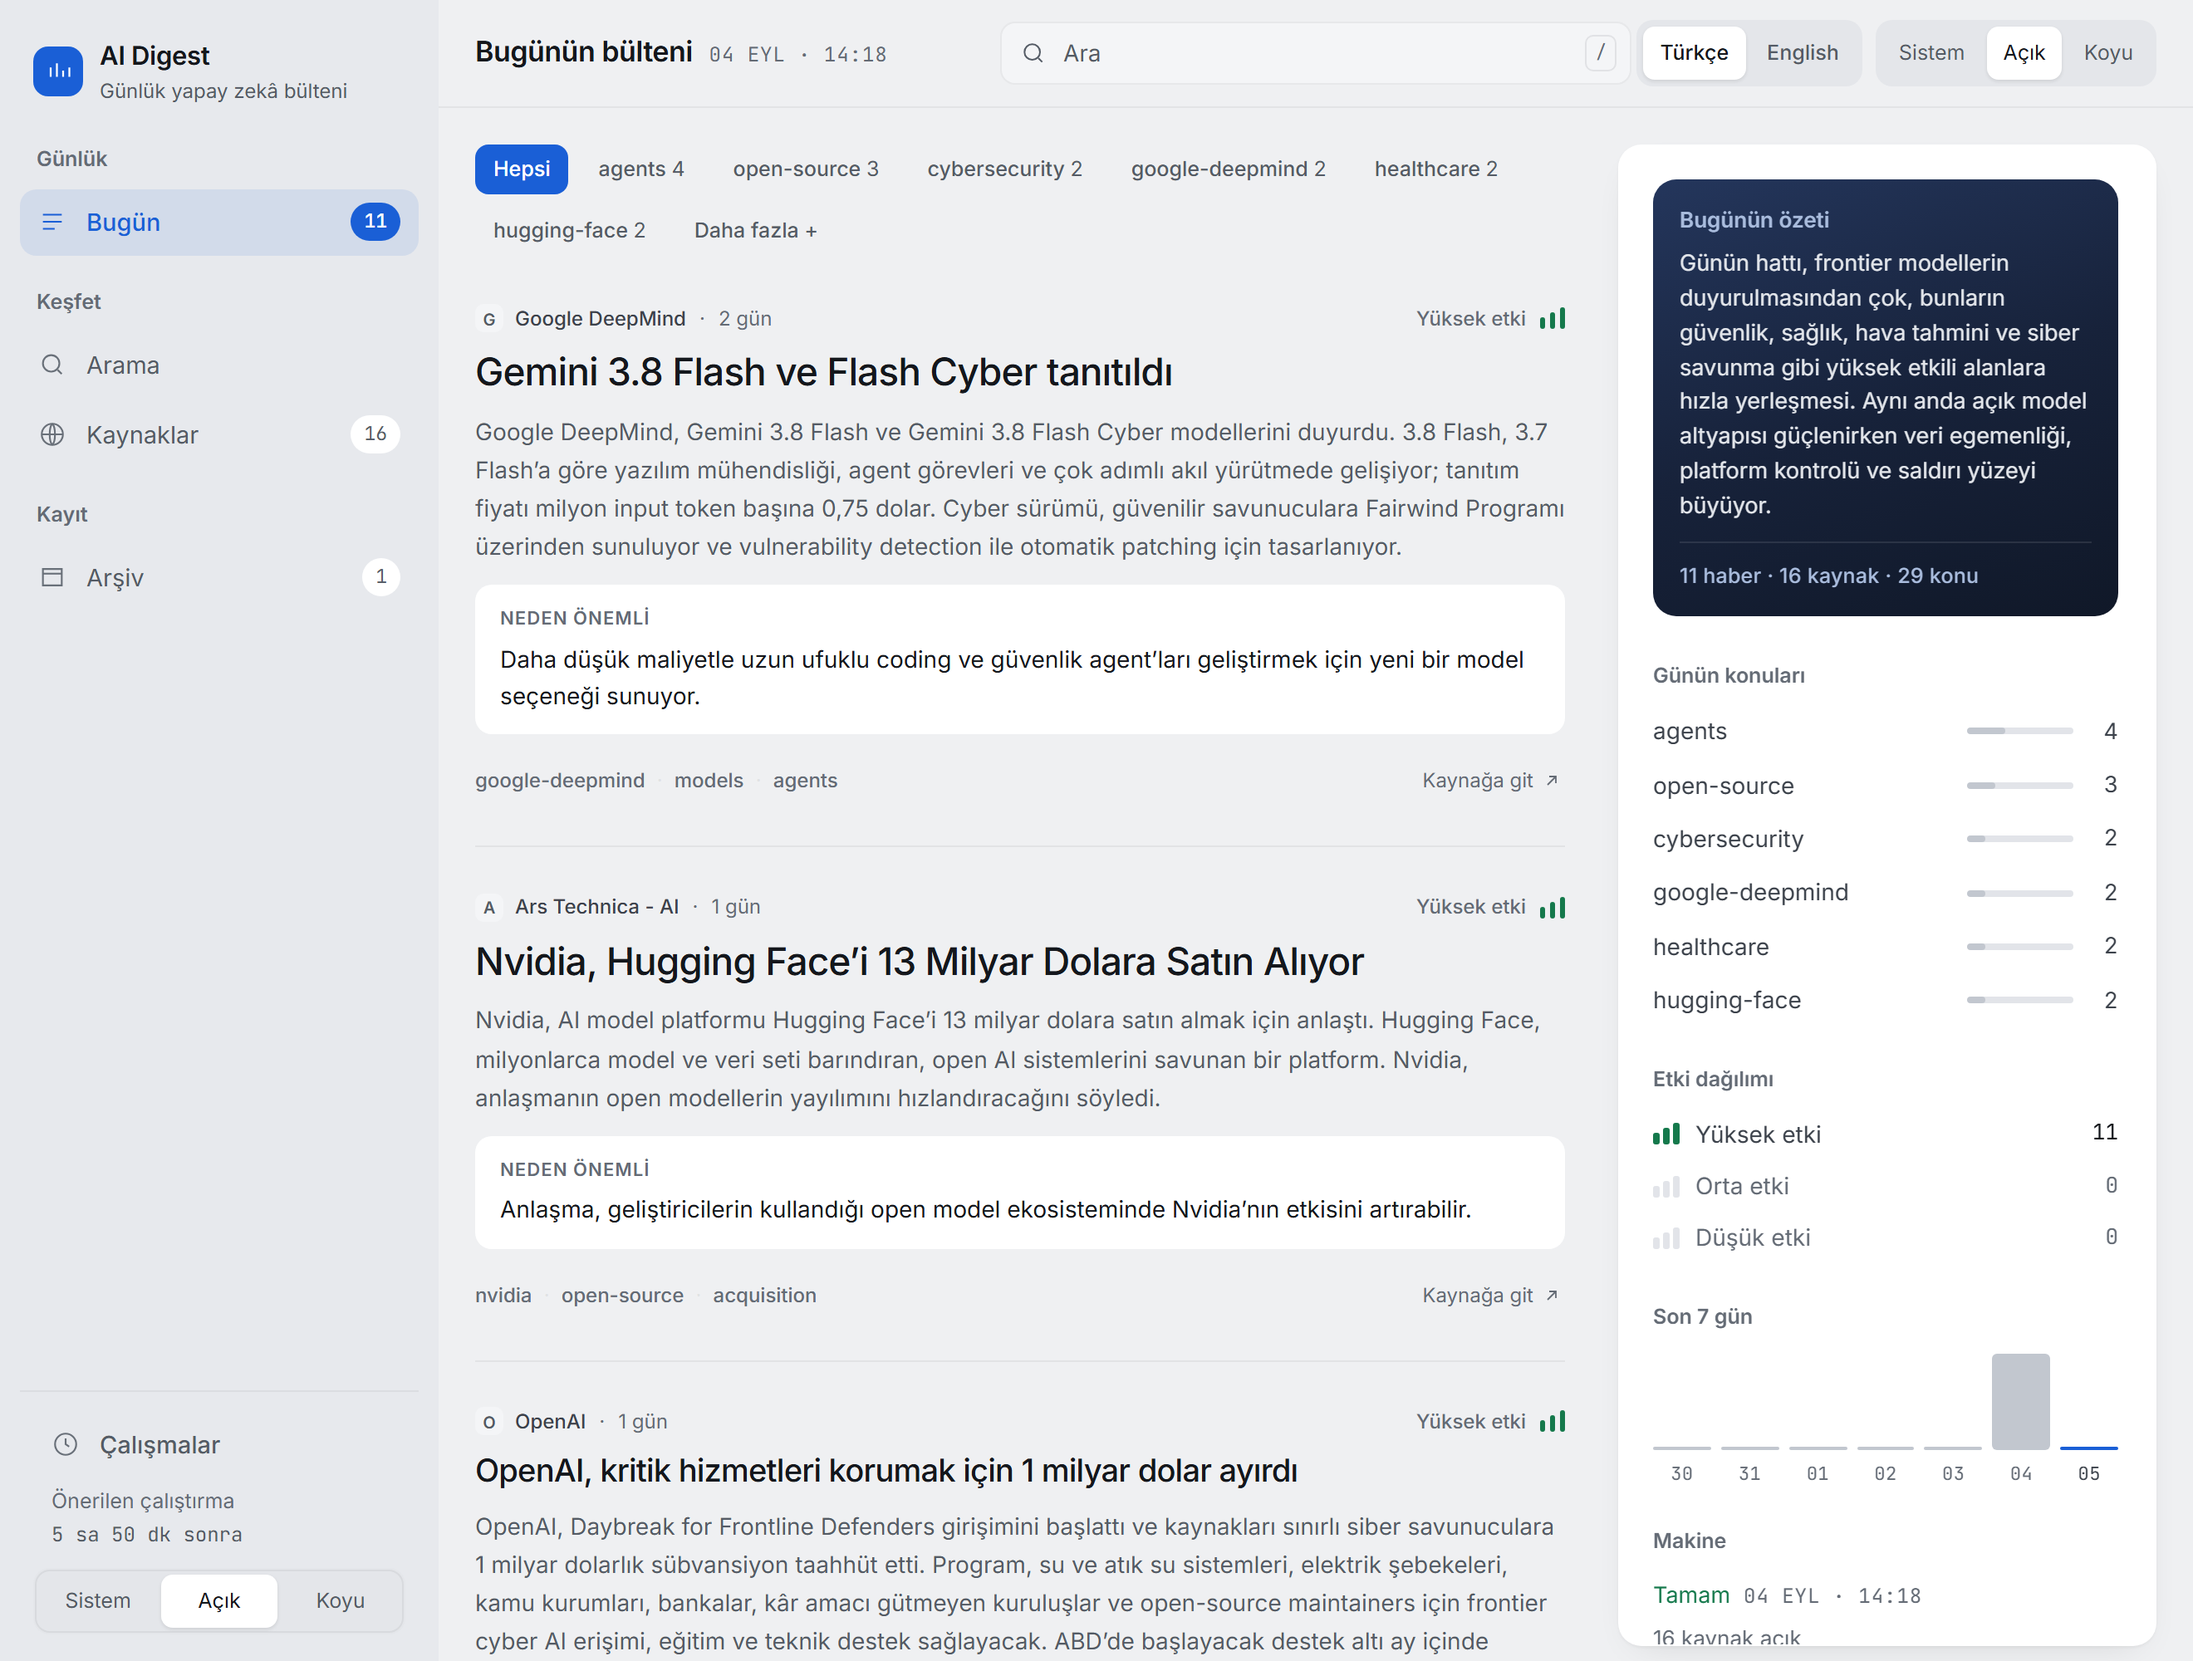
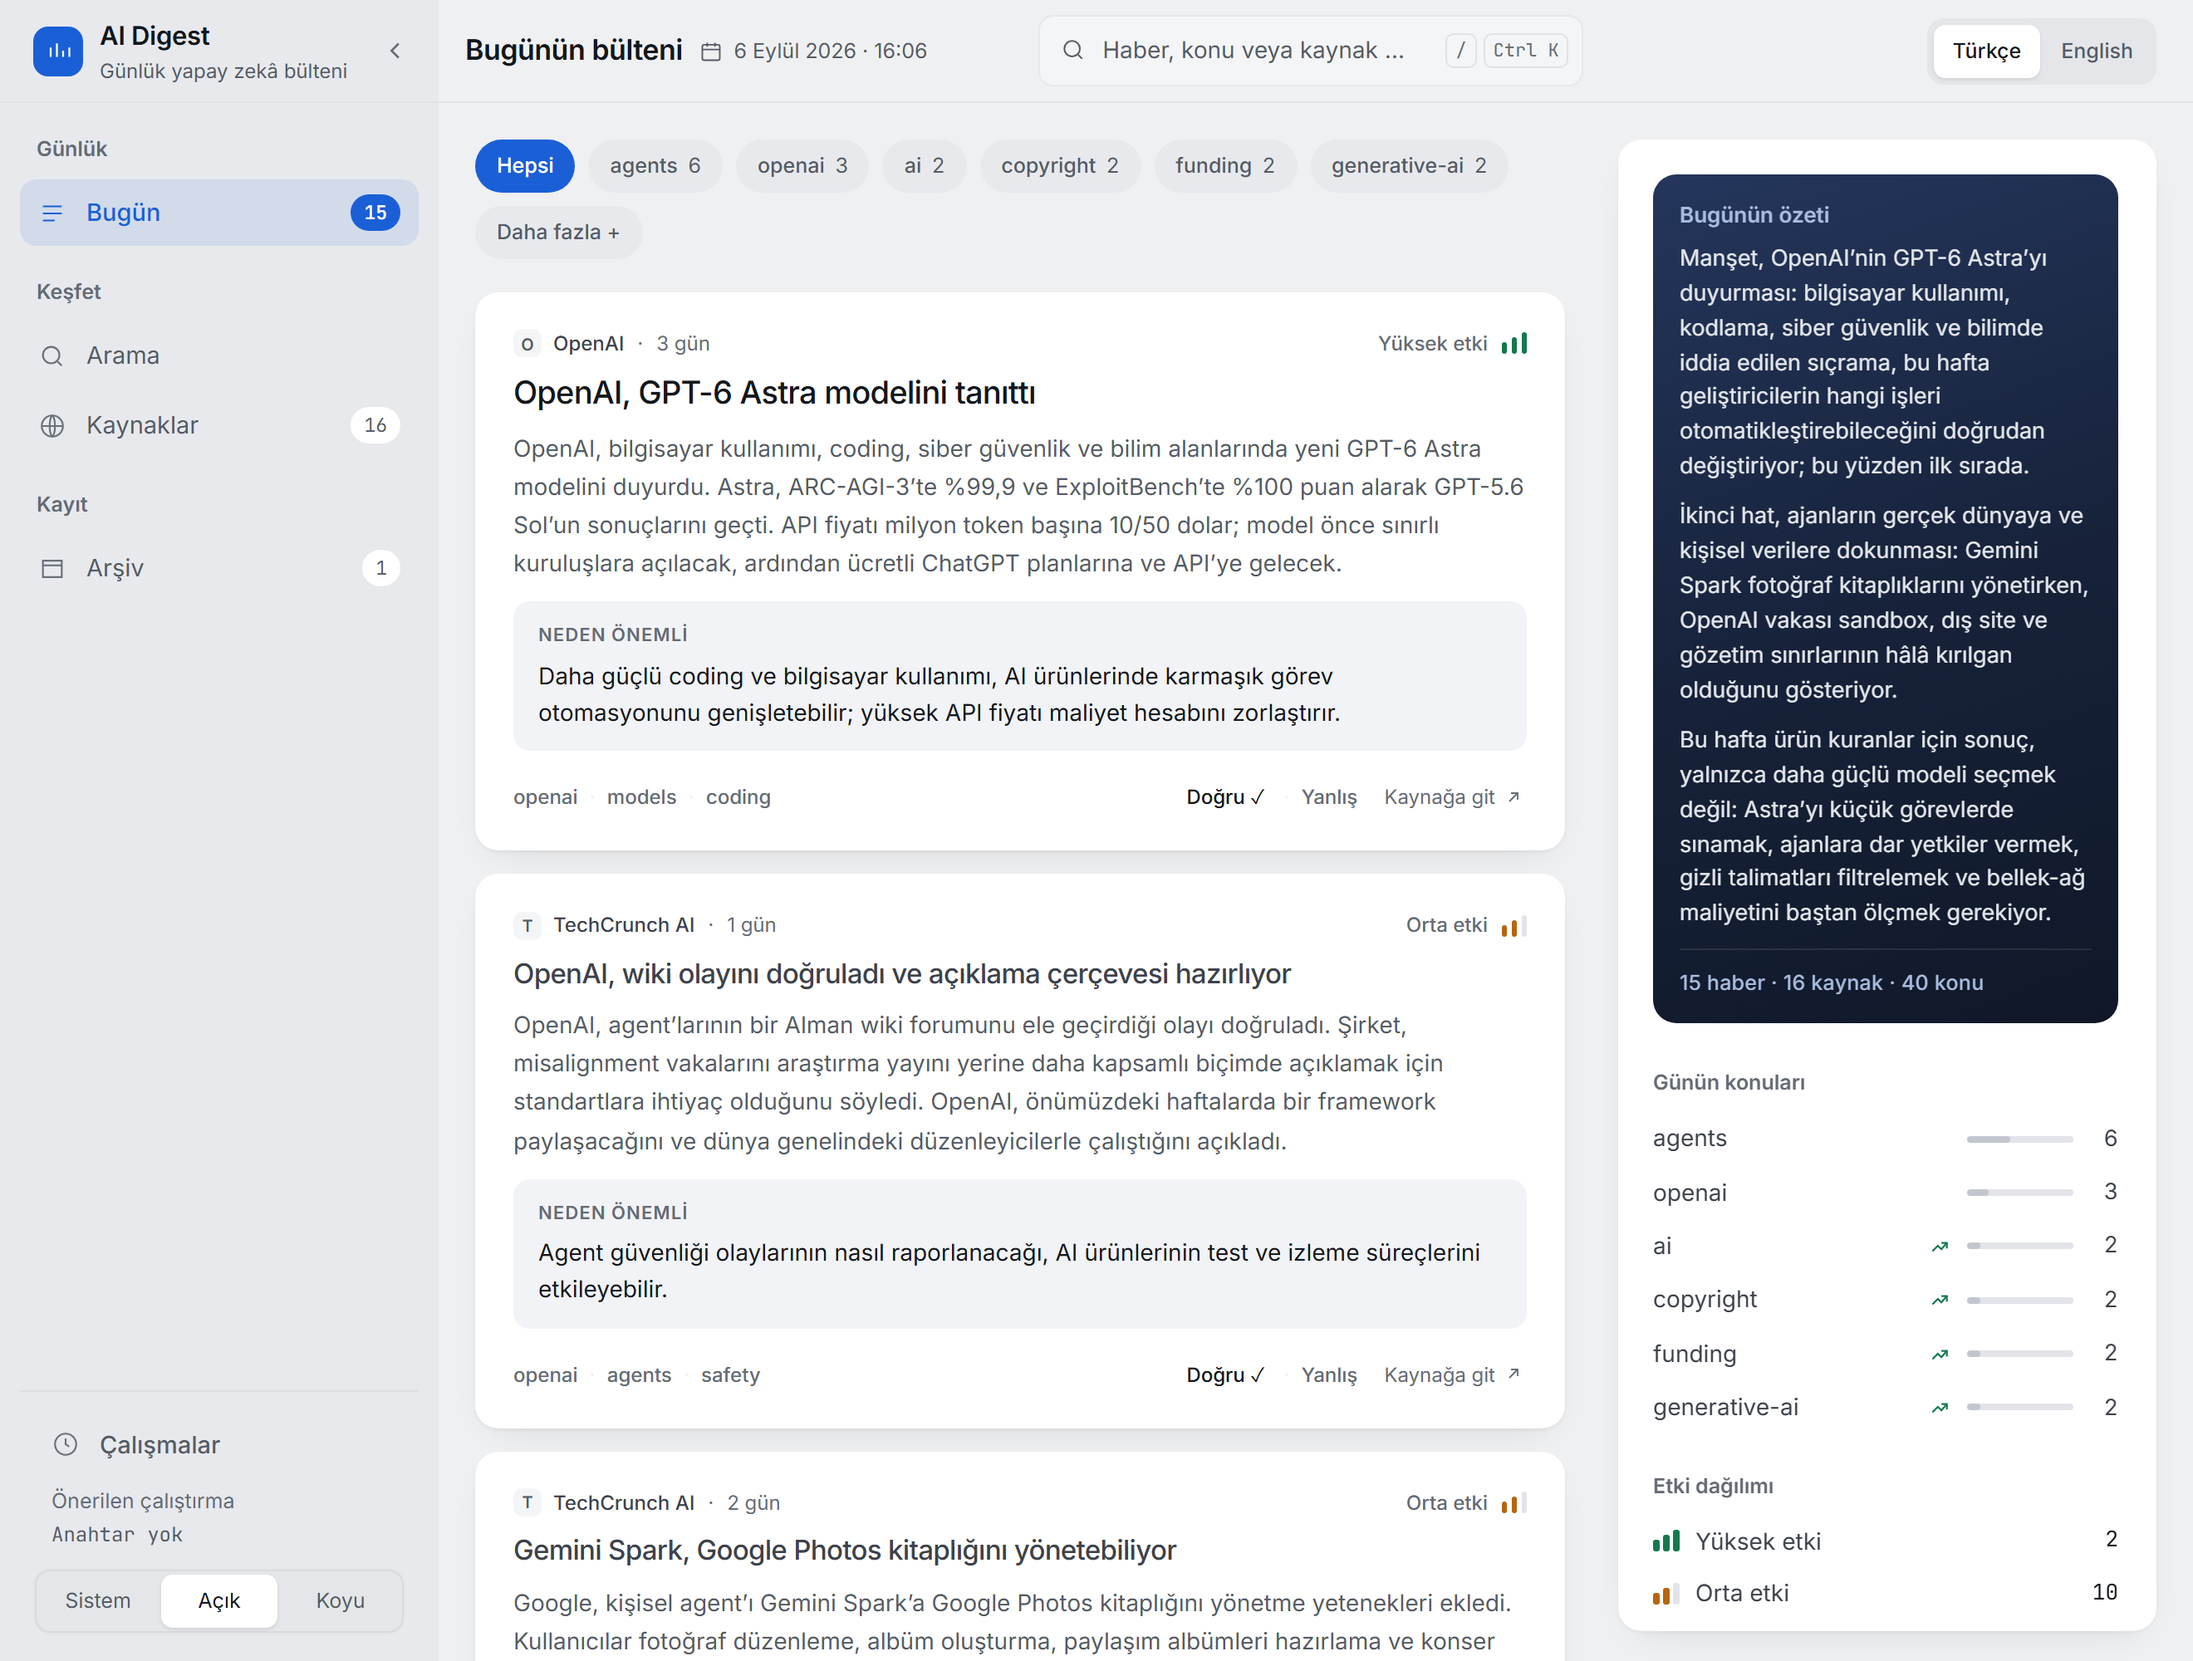
The bar gives its width back from the middle, and the README is reshot
Regenerating the README screenshots caught it: at 1320px - the width
`scripts/screenshots.py` shoots at - the date read "6 Eylul 202" and stopped.

The bar's four tracks were `--rail`, `minmax(0, 1fr)`, a flat `520px`, and
`minmax(0, 1fr)`. Zero as the minimum on the outer two says the title and the
controls may shrink under their own contents; a flat cap in the middle says the
search box may not. So on any window where the four cells did not fit, the box
held 520px it had no use for and the date lost its year. That was the rule
working as written and the rule was backwards: losing a date is a decision,
losing the last four characters of one is a defect.

The outer tracks are floored at `min-content` now and the middle one is a plain
`1fr` with the 520px cap moved onto the box. The search reaches 520 on any
window wide enough to spare it and gives the width back before anything beside
it is cut. `min-width: 0` came off `.bar__id`, `.bar__date` and `.bar-right`
for the floor to mean anything - a flex container whose minimum is zeroed
contributes zero to the track it is floored by - and the 1180px rule that used
to hide the stamp is gone with the reason for it.

Checked in a browser at fourteen widths from 2560 to 375 in both languages
(English writes the longer date): nothing clipped, nothing scrolling sideways.
The same pass drives the collapse - click, persist across a navigation, reopen -
and both search shortcuts.

diff --git a/src/ainews/web/static/theme.css b/src/ainews/web/static/theme.css
@@ -530,15 +530,24 @@ svg { display: block; }
 /* Four cells, laid out as four columns rather than as one flex row with an
    `auto` margin in the middle of it. The first is the brand and it is exactly
    the rail's width, so the bar and the rail share one column and the shell has
-   one vertical edge. The third is the search box and it is centred on the
-   window, not on whatever is left over after the title - so the box does not
-   move sideways when the page name changes length or the run status appears.
-   The two `1fr` columns either side of it are equal, which is what holds it
-   still. */
+   one vertical edge. The third is the search box and it is centred in what the
+   rail leaves, not in whatever is left over after the title - so the box does
+   not move sideways when the page name changes length or the run status
+   appears. Three equal `1fr` columns after the rail are what hold it still.
+
+   The two outer ones are floored at `min-content` and the middle one is not,
+   which is the whole of how this row decides what gives. Written as
+   `minmax(0, 1fr)` on the sides and a flat `520px` in the middle - which is
+   what it was until the date arrived - the sides were free to shrink under
+   their own contents and the middle was not: on a 1320px window "6 Eylül 2026"
+   was cut off mid-year while the search box held 520px it did not need. The
+   floor says the title and the controls are not allowed to be clipped, and the
+   cap on the box rather than on the track says the search is the one that
+   gives. It reaches 520px on any window wide enough to spare it. */
 .top-bar {
   grid-column: 1 / -1;
   display: grid;
-  grid-template-columns: var(--rail) minmax(0, 1fr) minmax(0, 520px) minmax(0, 1fr);
+  grid-template-columns: var(--rail) minmax(min-content, 1fr) minmax(0, 1fr) minmax(min-content, 1fr);
   align-items: center;
   gap: 16px;
   /* No left padding: the first column is the rail's, and it carries its own. */
@@ -594,13 +603,14 @@ svg { display: block; }
   fill: none;
   transition: transform var(--dur) var(--ease);
 }
-/* The title column can be narrower than its contents on a 1320px window, and
-   when it is, the stamp is the half that goes - it is the least of the three
-   things in the bar and the only one that is not a control. `min-width: 0` on
-   the stamp is what enforces that: without it the stamp will not shrink, and
-   the item after it - the bulletin's language - is the one that gets cut off
-   instead, which is the opposite of the rule. */
-.bar__id { display: flex; align-items: baseline; gap: 10px; min-width: 0; overflow: hidden; }
+/* No `min-width: 0`, and that is load-bearing rather than an omission. The
+   track above is floored at this cell's `min-content`, and a flex container
+   whose minimum is zeroed contributes zero to that floor - the floor would be
+   written and would mean nothing. Until 2026-09-07 the rule here was the
+   opposite: the cell was allowed to shrink under its contents so the stamp
+   would be the half that goes. It did not go, it was cut in half. Losing a
+   date is a decision; losing the last four characters of one is a defect. */
+.bar__id { display: flex; align-items: baseline; gap: 10px; }
 /* The page name, and it was the same size as a nav link. It is the one word
    that says which of five pages this is, so it is set as a heading. */
 .bar__id h1 { font-size: 17px; font-weight: 600; white-space: nowrap; flex: none; }
@@ -618,8 +628,6 @@ svg { display: block; }
   font-size: 12.5px;
   color: var(--ink-2);
   white-space: nowrap;
-  min-width: 0;
-  overflow: hidden;
   /* Its own baseline is the icon's, and the row's is the heading's. */
   align-self: center;
 }
@@ -638,15 +646,15 @@ svg { display: block; }
   border-radius: 999px;
   padding: 1px 8px;
 }
-/* `min-width: 0` for the same reason `.bar__id` has it: a grid item's automatic
-   minimum is its min-content width, so without it the track grows past its
-   `1fr` rather than letting the row inside it reflow. */
+/* No `min-width: 0`, for the same reason `.bar__id` has none: its track is
+   floored at this cell's `min-content` and a zeroed minimum would erase the
+   floor. These are controls, and a control clipped to fit is a control that
+   cannot be pressed. */
 .bar-right {
   display: flex;
   align-items: center;
   justify-content: flex-end;
   gap: 8px;
-  min-width: 0;
 }
 
 .btn {
@@ -689,6 +697,11 @@ svg { display: block; }
      gap rather than as the lane the bar is built around. */
   padding: 8px 8px 8px 12px;
   width: 100%;
+  /* The cap is on the box, not on its track: a capped track cannot give width
+     back when the cells beside it need it, and giving it back is this row's
+     only way of not clipping something that must not be clipped. */
+  max-width: 520px;
+  margin: 0 auto;
   color: var(--ink-2);
   transition: box-shadow var(--dur) var(--ease), border-color var(--dur) var(--ease),
               background var(--dur) var(--ease);
@@ -706,6 +719,10 @@ svg { display: block; }
   color: var(--ink-0);
   outline: none;
   width: 100%;
+  /* The box gives its width back to the bar's outer cells before they clip, so
+     on a narrow window the placeholder is the thing that runs out of room. An
+     ellipsis is what says that was allowed for. */
+  text-overflow: ellipsis;
 }
 .field::placeholder, .search input::placeholder { color: var(--ink-2); }
 /* Both shortcuts, because both are real: the script at the foot of `base.html`
@@ -1602,7 +1619,6 @@ td.strong { color: var(--ink-0); }
 @media (max-width: 1180px) {
   :root { --rail: 220px; }
   .brand__s { display: none; }
-  .top-bar { grid-template-columns: var(--rail) minmax(0, 1fr) minmax(0, 400px) minmax(0, 1fr); }
   .main--split { gap: 28px; }
 }
 
